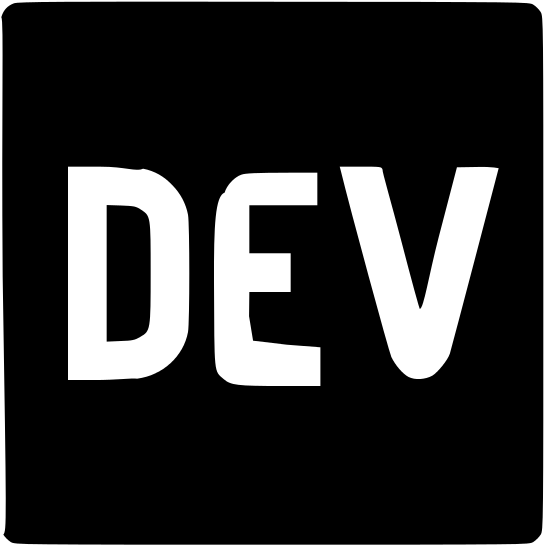
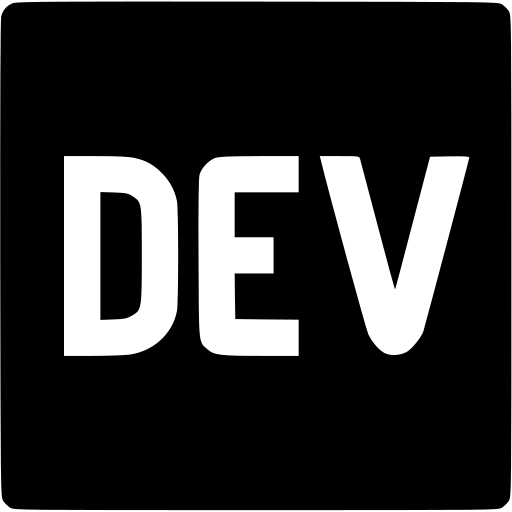
Added graffiti image & improved dev.to badge

diff --git a/src/components/room_scene.js b/src/components/room_scene.js
@@ -136,10 +136,10 @@ export default class RoomScene {
 
         //// BLOG
         let blogGeometry = new THREE.PlaneBufferGeometry(1.5, 1.5)
-        let blogMaterial = new THREE.MeshBasicMaterial({map: this.devBadgeImage, transparent: true, opacity: 0.9, color: 0xFF0000})
+        let blogMaterial = new THREE.MeshBasicMaterial({map: this.devBadgeImage, transparent: true, opacity: 0.7, color: 0xFF0000})
         this.devBadge = new THREE.Mesh(blogGeometry, blogMaterial)
 
-        this.devBadge.position.set(-3.05, 0, -16.35)
+        this.devBadge.position.set(-3.0, 0, -16.38)
         this.devBadge.rotateOnWorldAxis(new THREE.Vector3(0, 1, 0), Math.PI / 2)
         this.scene.add(this.devBadge)
     }
@@ -152,9 +152,8 @@ export default class RoomScene {
                 let arc = this.scannerLockMesh.geometry.parameters.arc += 0.2
                 this.removeFocusObject()
                 this.addFocusObject(this.intersectedObject, arc)            
-            } else {
-                this.scannerLockMesh.rotation.z -= 0.01
             }
+            this.scannerLockMesh.rotation.z -= 0.01
         }
         this.renderer.render(this.scene, this.camera)
     }
@@ -261,15 +260,12 @@ export default class RoomScene {
 
         // When animated to full circle
         if(this.scannerLockMesh.geometry.parameters.arc.toFixed(1) == 6.3) {
-            let targetGeometry1 = new THREE.TorusBufferGeometry(0.6, 0.02, 16, 100, Math.PI / 2)
+            let targetGeometry1 = new THREE.TorusBufferGeometry(0.4, 0.02, 16, 100, Math.PI / 2)
             let targetMesh1 = new THREE.Mesh(targetGeometry1, material)
             
-            let targetGeometry2 = new THREE.TorusBufferGeometry(0.6, 0.02, 16, 100, Math.PI / 2)
+            let targetGeometry2 = new THREE.TorusBufferGeometry(0.4, 0.02, 16, 100, Math.PI / 2)
             let targetMesh2 = new THREE.Mesh(targetGeometry2, material)
             targetMesh2.rotateZ(Math.PI)
-
-            this.scannerLockMesh.add(targetMesh1)
-            this.scannerLockMesh.add(targetMesh2)
 
             var clickTextGeometry = new THREE.TextGeometry("View Scan", {
                 font: this.standardFont,
@@ -277,14 +273,15 @@ export default class RoomScene {
                 curveSegments: 20,
                 height: 0.01
             })
-
+            
             this.clickTestMesh = new THREE.Mesh(clickTextGeometry, material)
             this.clickTestMesh.position.set(this.intersectedObject.position.x, this.intersectedObject.position.y - 0.035 * scale, this.intersectedObject.position.z + 0.23 * scale)
             this.clickTestMesh.rotation.set(0, this.intersectedObject.rotation.y, 0)
-
+            
+            this.scannerLockMesh.add(targetMesh1)
+            this.scannerLockMesh.add(targetMesh2)
             this.scene.add(this.clickTestMesh)
         }
-
         this.scene.add(this.scannerLockMesh)
     }
 

diff --git a/src/sass/_landing_screen.scss b/src/sass/_landing_screen.scss
@@ -166,9 +166,12 @@
         line-height: 3.5rem;
         font-family: 'Poppins-ExtraLight';
         cursor: pointer;
-        margin-block-start: 0;
-        margin-block-end: 0;
         padding: 15px;
+        /* overriding user agent stylesheet */
+        margin-block-start: 0px !important;
+        -webkit-margin-before: 0px !important;
+        -webkit-margin-after: 0px !important;
+        margin-block-end: 0px !important;
 
         &.initial {
             color: #fff !important;
